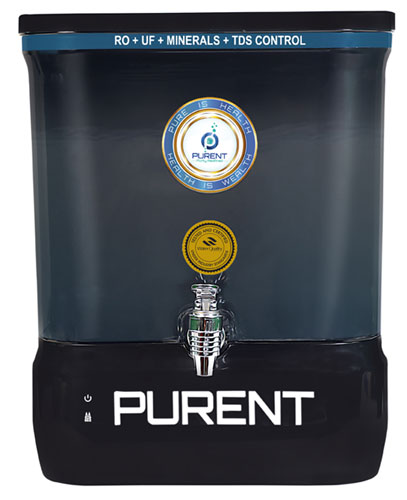
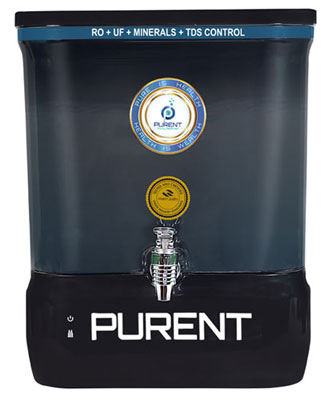
updated the pages

diff --git a/products.html b/products.html
@@ -385,32 +385,32 @@
     <div class="container-lg">
       <div class="section-title">
         <h3 class="mb-lg-2">Highlight Specifications</h3>
-        <p class="mb-1">Purent RO Purifiers Specifications</p>
+        <p class="mb-lg-2" style="font-weight:600; font-size:18px;">Purent RO Purifiers Specifications :</p>
       </div>
-      <div class="container">
-        <div class="row">
-          <div class="col-lg-6">
-            <ul>
-              <li class="mb-3">Get Healthy water with Purent (RO+UF+ + UV + Mineraliser), with advanced UV Sterilization
-                and added essential minerals.</li>
-              <li class="mb-3">8-Stage Advanced Purification</li>
-              <li class="mb-3">9 Ltrs Water Storage Capacity</li>
-              <li class="mb-3">Compact Design </li>
-              <li class="mb-3">Detachable water storage tank</li>
-              <li class="mb-3">Mineralisers which help in Preserving key minerals in the water during the purification
-                process</li>
-              <li class="mb-3">In-Tank Ultra Filtration (UF) providing you the safest drinking water</li>
-              <li class="mb-3">Wall Mount Option</li>
-              <li class="mb-3">Total Dissolved Solids (TDS) Levels: Upto 2,000 ppm</li>
-              <li class="mb-3">18 liters/hours Purification Capacity</li>
-              <li class="mb-3">Input Voltage: 14-300 V AC/ 50 HZ</li>
-            </ul>
-          </div>
-          <div class="col-lg-6">
-            <img src="assets/img/product1.jpg" alt="">
-          </div>
+
+      <div class="row">
+        <div class="col-lg-7">
+
+          <p>Get Healthy water with Purent (RO+UF+ + UV + Mineraliser), with advanced UV
+            Sterilization and added essential minerals.</p>
+          <p>8-Stage Advanced Purification</p>
+          <p>9 Ltrs Water Storage Capacity</p>
+          <p>Compact Design </p>
+          <p>Detachable water storage tank</p>
+          <p>Mineralisers which help in Preserving key minerals in the water during the purification
+            process</p>
+          <p>In-Tank Ultra Filtration (UF) providing you the safest drinking water</p>
+          <p>Wall Mount Option</p>
+          <p>Total Dissolved Solids (TDS) Levels: Upto 2,000 ppm</p>
+          <p>18 liters/hours Purification Capacity</p>
+          <p>Input Voltage: 14-300 V AC/ 50 HZ</p>
+
+        </div>
+        <div class="col-lg-5">
+          <img src="assets/img/product1.jpg" style="width:326px; height:auto;" alt="">
         </div>
       </div>
+
 
     </div>
   </div>
@@ -448,7 +448,7 @@
             </ul>
           </div>
 
-          <div class="col-lg-3 col-md-6 footer-links">
+          <!-- <div class="col-lg-3 col-md-6 footer-links">
             <h4>Our Services</h4>
             <ul>
               <li><i class="bi bi-chevron-right"></i> <a href="#">Purent Service</a></li>
@@ -457,7 +457,7 @@
               <li><i class="bi bi-chevron-right"></i> <a href="#">Purent Service</a></li>
               <li><i class="bi bi-chevron-right"></i> <a href="#">Purent Service</a></li>
             </ul>
-          </div>
+          </div> -->
 
           <div class="col-lg-4 col-md-6 footer-newsletter">
             <h4>Location Map</h4>

diff --git a/team.html b/team.html
@@ -80,8 +80,8 @@
 
       <div class="section-header">
         <h2>Our Team</h2>
-        <p>Architecto nobis eos vel nam quidem vitae temporibus voluptates qui hic deserunt iusto omnis nam voluptas
-          asperiores sequi tenetur dolores incidunt enim voluptatem magnam cumque fuga.</p>
+        <!-- <p>Architecto nobis eos vel nam quidem vitae temporibus voluptates qui hic deserunt iusto omnis nam voluptas
+          asperiores sequi tenetur dolores incidunt enim voluptatem magnam cumque fuga.</p> -->
       </div>
 
       <div class="row gy-5">
@@ -175,7 +175,7 @@
             </ul>
           </div>
 
-          <div class="col-lg-3 col-md-6 footer-links">
+          <!-- <div class="col-lg-3 col-md-6 footer-links">
             <h4>Our Services</h4>
             <ul>
               <li><i class="bi bi-chevron-right"></i> <a href="#">Purent Service</a></li>
@@ -184,7 +184,7 @@
               <li><i class="bi bi-chevron-right"></i> <a href="#">Purent Service</a></li>
               <li><i class="bi bi-chevron-right"></i> <a href="#">Purent Service</a></li>
             </ul>
-          </div>
+          </div> -->
 
           <div class="col-lg-4 col-md-6 footer-newsletter">
             <h4>Location Map</h4>

diff --git a/about.html b/about.html
@@ -139,7 +139,7 @@
             </ul>
           </div>
 
-          <div class="col-lg-3 col-md-6 footer-links">
+          <!-- <div class="col-lg-3 col-md-6 footer-links">
             <h4>Our Services</h4>
             <ul>
               <li><i class="bi bi-chevron-right"></i> <a href="#">Purent Service</a></li>
@@ -148,7 +148,7 @@
               <li><i class="bi bi-chevron-right"></i> <a href="#">Purent Service</a></li>
               <li><i class="bi bi-chevron-right"></i> <a href="#">Purent Service</a></li>
             </ul>
-          </div>
+          </div> -->
 
           <div class="col-lg-4 col-md-6 footer-newsletter">
             <h4>Location Map</h4>

diff --git a/contact.html b/contact.html
@@ -164,7 +164,7 @@
             </ul>
           </div>
 
-          <div class="col-lg-3 col-md-6 footer-links">
+          <!-- <div class="col-lg-3 col-md-6 footer-links">
             <h4>Our Services</h4>
             <ul>
               <li><i class="bi bi-chevron-right"></i> <a href="#">Purent Service</a></li>
@@ -173,7 +173,7 @@
               <li><i class="bi bi-chevron-right"></i> <a href="#">Purent Service</a></li>
               <li><i class="bi bi-chevron-right"></i> <a href="#">Purent Service</a></li>
             </ul>
-          </div>
+          </div> -->
 
           <div class="col-lg-4 col-md-6 footer-newsletter">
             <h4>Location Map</h4>
